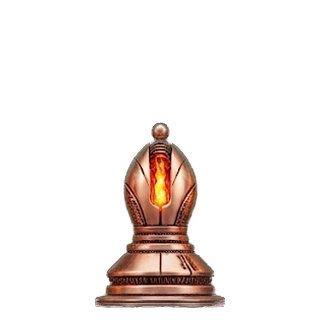
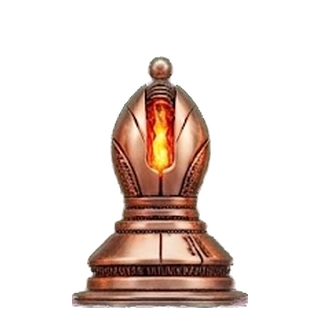
Let white dominate the board
The white pieces now fill the square and black stands at 90% of that. The
source sheet gives the opposite -- there the black pieces are drawn 35% larger
-- so a single scale across all twelve inherits it and the wrong side towers
over the board.

Within each side nothing is normalised: relative heights between pieces are
exactly as drawn, flames included, which is why the rook stands close to the
queen. The two sides remain different shapes rather than one set in two
colours, which is the point of them.

The ratio between the sides is one named constant, so it can be argued with
by editing a number rather than by re-deriving the crop.

Claude-Session: https://claude.ai/code/session_01LiXZnuzu6WQwHSooUohDJq

Changed region(s): [[0.2188, 0.1562, 0.7812, 0.9688]]

diff --git a/assets/board/recorta_pecas.py b/assets/board/recorta_pecas.py
@@ -59,20 +59,25 @@ for cor, (y0, y1) in FILAS.items():
 LADO, MARGEM = 320, 12
 alvo = LADO - 2 * MARGEM
 
-# UMA escala global para as doze. Nada e' emparelhado nem normalizado.
+# Uma escala por LADO, e as brancas mandam.
 #
-# As alturas, dentro de cada fila e entre as duas, sao como foram desenhadas.
-# As brancas e as pretas NAO sao a mesma peca noutra cor -- as pretas tem outro
-# porte, e isso e' o desenho. Uma normalizacao "para ficarem iguais" apagaria
-# precisamente aquilo que distingue os dois lados.
+# As brancas enchem o quadrado; as pretas ficam um pouco abaixo. Nao e' para
+# as igualar -- os dois lados sao desenhos diferentes de proposito, e as pretas
+# tem outro porte. E' para as brancas serem as imponentes, que e' o efeito
+# pretendido e que a folha de origem dava ao contrario: nela as pretas estavam
+# desenhadas 35% maiores, e uma escala global unica herdava isso.
 #
-# A unica coisa imposta e' a linha de base: a peca mais alta do conjunto enche
-# o quadrado, todas as outras escalam com ela pelo mesmo factor, e todas pousam
-# no mesmo sitio.
-mais_alta = max(img.size[1] for img in rec.values())
-g = alvo / mais_alta
+# Dentro de cada lado nada e' normalizado: as alturas relativas entre pecas sao
+# exactamente as desenhadas.
+PROPORCAO_PRETAS = 0.90
+
+escala = {}
+for cor in ("w", "b"):
+    mais_alta = max(rec[cor + n].size[1] for n in NOMES)
+    escala[cor] = alvo / mais_alta * (PROPORCAO_PRETAS if cor == "b" else 1.0)
 
 for nome, img in rec.items():
+    g = escala[nome[0]]
     nw = max(1, round(img.size[0] * g))
     nh = max(1, round(img.size[1] * g))
     r = img.resize((nw, nh), Image.LANCZOS)
@@ -83,7 +88,7 @@ for nome, img in rec.items():
     tela.alpha_composite(r, ((LADO - nw) // 2, LADO - MARGEM - nh))
     tela.save(os.path.join(DESTINO, f'{nome}.png'))
 
-print("  alturas finais (uma so escala, como desenhadas):")
+print("  alturas finais (px de 320):")
 for cor in ("w", "b"):
-    hs = {n: round(rec[cor + n].size[1] * g) for n in NOMES}
+    hs = {n: round(rec[cor + n].size[1] * escala[cor]) for n in NOMES}
     print(f"    {cor}: " + "  ".join(f"{n}={hs[n]:3d}" for n in NOMES))

diff --git a/assets/board/README.md b/assets/board/README.md
@@ -11,26 +11,29 @@ browser will actually load.
 Copper and fire against blackened steel, to match the falcon in `assets/`. The
 knight is a bird of prey rather than a horse: Kestrel is a falcon.
 
-**The two sides are not the same shapes in another colour.** The black pieces
-are drawn heavier and stand taller than their white counterparts. That is the
-design, and normalising the two to match would erase the one thing that
-separates the sides at a glance.
+**The two sides are not the same shapes in another colour**, and white is the
+imposing one. The white pieces fill the square; black stands at 90% of that.
+That is a choice, and it is the reverse of what the source sheet gives: there
+the black pieces are drawn 35% LARGER, so a single scale for all twelve
+inherits it and the wrong side dominates the board.
 
-One global scale for all twelve. The tallest piece fills its square, everything
-else scales by the same factor, and every piece sits on a common baseline.
-Nothing is fitted to its own square individually: relative height is how a
-player tells a rook from a queen without looking twice, and per-piece fitting
-would make the pawn as tall as the king.
+Within each side nothing is normalised. Relative heights between pieces are
+exactly as drawn -- the art was made to fill the square, and the flames count
+toward height, which is why the rook stands close to the queen.
+
+One baseline for all twelve. Nothing is fitted to its own square individually:
+relative height is how a player tells a rook from a queen without looking
+twice, and per-piece fitting would make the pawn as tall as the king.
 
 Heights as shipped, in pixels of the 320 canvas:
 
 | | K | Q | R | B | N | P |
 |---|---|---|---|---|---|---|
-| white | 219 | 186 | 214 | 186 | 208 | 162 |
-| black | 296 | 263 | 237 | 221 | 245 | 163 |
+| white | 296 | 252 | 289 | 252 | 281 | 219 |
+| black | 266 | 237 | 213 | 199 | 221 | 146 |
 
-The flames count toward height, which is why the rook stands close to the
-queen. Deliberate: the art was drawn to fill the square.
+The ratio between the sides is one constant, `PROPORCAO_PRETAS` in
+`recorta_pecas.py`.
 
 ## Rebuilding them
 
